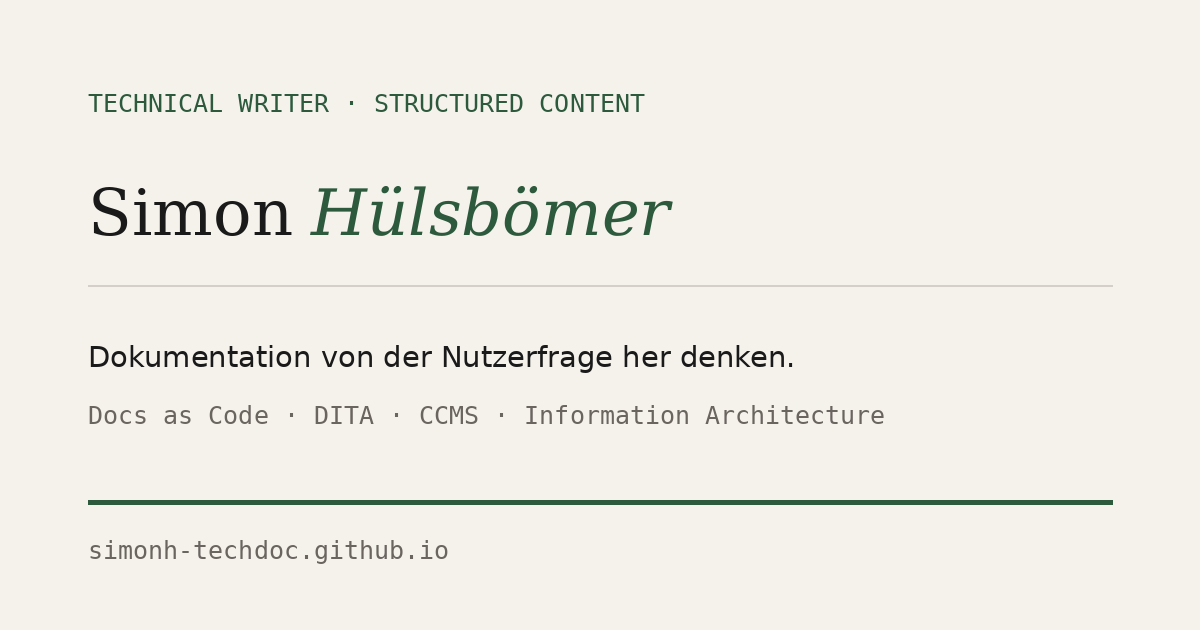
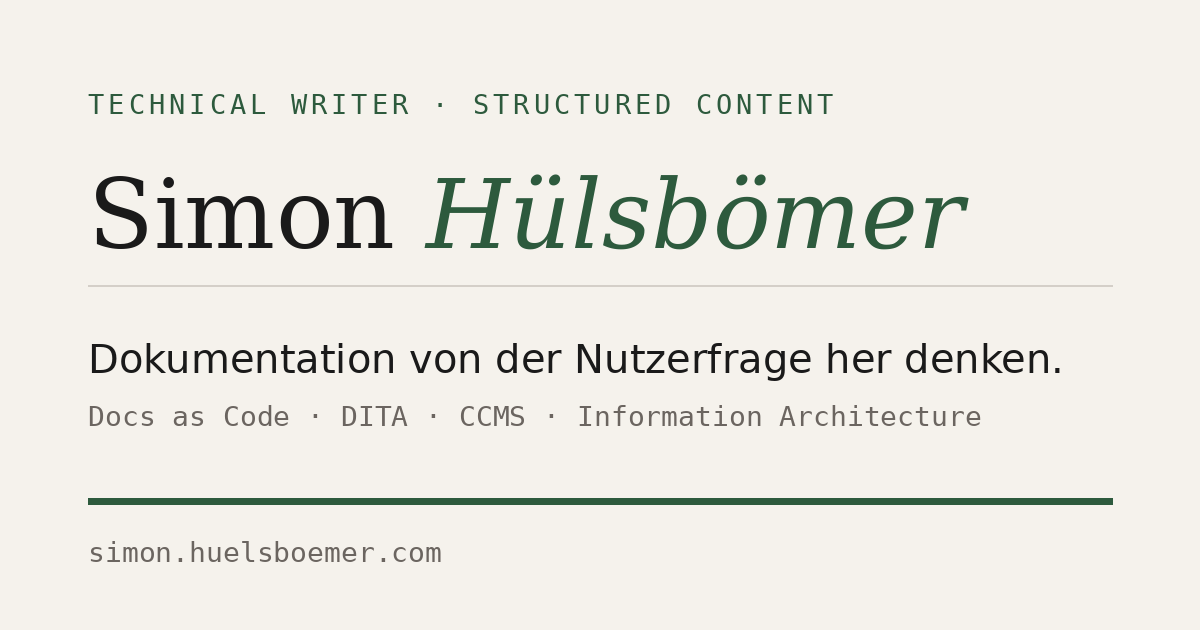
Add files via upload

diff --git a/index.html b/index.html
@@ -9,13 +9,13 @@
   <meta property="og:locale" content="de_DE" />
   <meta property="og:title" content="Simon Hülsbömer – Technical Writer" />
   <meta property="og:description" content="Technische Redaktion, Structured Content, Docs as Code und Information Architecture – Projekte und Kompetenzen." />
-  <meta property="og:url" content="https://simonh-techdoc.github.io/" />
-  <meta property="og:image" content="https://simonh-techdoc.github.io/og-image.png" />
+  <meta property="og:url" content="https://simon.huelsboemer.com/" />
+  <meta property="og:image" content="https://simon.huelsboemer.com/og-image.png" />
   <meta property="og:image:width" content="1200" />
   <meta property="og:image:height" content="630" />
   <meta property="og:image:alt" content="Simon Hülsbömer – Technical Writer · Structured Content · Information Architecture" />
   <meta name="twitter:card" content="summary_large_image" />
-  <link rel="canonical" href="https://simonh-techdoc.github.io/" />
+  <link rel="canonical" href="https://simon.huelsboemer.com/" />
   <link rel="icon" href="favicon.svg" type="image/svg+xml" />
   <link rel="preconnect" href="https://fonts.googleapis.com" />
   <link rel="preconnect" href="https://fonts.gstatic.com" crossorigin />
